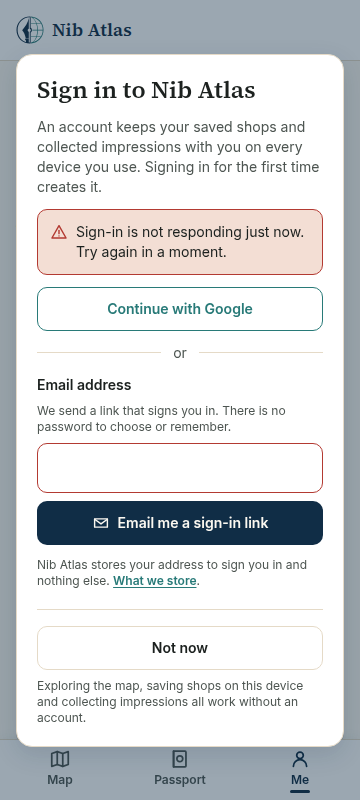
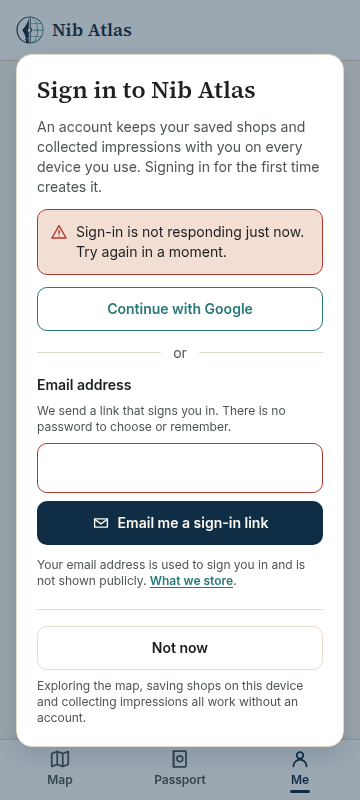
Follow-up to WP3: a raced journey, a stale note, and refreshed evidence
Work that missed #37 — the push was rejected as non-fast-forward while the
branch was being finished, and the pull request merged before it landed.
Restarted from the merged main rather than stacked on it. No product
behaviour changes here: one reviewer note, one test geometry fix, tests, and
regenerated captures.

**A journey that only passed by racing an animation.** `applying after a pan`
starts its drag at 0.55 of the height with the results sheet raised — which
the sheet covers at Half. It passed while the panel was still travelling
upward and the start point was still map; once the transition settles first,
the drag grabs the handle, the sheet goes to Full, the map never moves, and
there is no Search this area to offer. Instrumented rather than guessed at:
the camera reported no movement at all, and the handle's grab area measured
393 px against a start point of 406. It fails three runs in five against the
merged code, and eight in eight pass with the gesture started at 0.15 and
dragged downward, clear of the sheet at every breakpoint that has one.
`panMap` takes the start fraction as an argument, with its previous default.

**The reviewer note on Privacy still said accounts do not exist.** They do
now, where a Supabase project is configured, and the note says which is which
— and that signing in does not yet move what is saved on the device.

**Coverage for what landed.** Reducer cases for `restoreFilters`; the map
[…]

Changed region(s): [[0.0917, 0.6875, 0.8556, 0.75]]

diff --git a/tests/e2e/auth-interruption.spec.ts b/tests/e2e/auth-interruption.spec.ts
@@ -150,8 +150,11 @@ test.describe("the interruption", () => {
     const confirmation = page.getByRole("dialog", { name: /check your email/i });
 
     await expect(confirmation).toContainText("ada@example.com");
+    // Described, not named: WP6 has not proven hosted delivery, and an address
+    // the message may not have come from sends the reader to the wrong place.
+    // Any address fails this, not just today's.
     await expect(confirmation).toContainText(/Nib Atlas sign-in message/i);
-    await expect(confirmation).not.toContainText("login@nibatlas.com");
+    await expect(confirmation).not.toContainText(/@nibatlas\.com/i);
     // Nothing here says whether the address already had an account: the route
     // answers the same way either way, and the copy keeps it that way.
     await expect(confirmation).not.toContainText(/welcome back|new account/i);
@@ -223,6 +226,63 @@ test.describe("the interruption", () => {
     await expect(
       dialog.getByRole("button", { name: /continue with google/i }),
     ).toBeEnabled();
+  });
+});
+
+test.describe("what the reader is told about their address", () => {
+  /*
+   * The interruption's own claim, and the page it links to, have to describe the
+   * same contract — and not a larger one. Authentication necessarily involves an
+   * account identifier, a session, and the provider of whichever path the reader
+   * chose, so no screen may round that down to "your address and nothing else".
+   */
+  test("the interruption claims only what is true, and links to the rest", async ({
+    page,
+  }) => {
+    await stubSession(page, { kind: "signed-out" });
+    await page.goto("/login");
+
+    await expect(page.getByText(/is not shown publicly/i)).toBeVisible();
+    await expect(page.getByText(/nothing else/i)).toHaveCount(0);
+
+    await page.getByRole("link", { name: /what we store/i }).click();
+
+    await expect(page).toHaveURL(/\/privacy$/);
+  });
+
+  test("Privacy describes signing in, and who processes it", async ({ page }) => {
+    await page.goto("/privacy");
+
+    const signingIn = page.getByRole("heading", { name: /^signing in$/i });
+
+    await expect(signingIn).toBeVisible();
+
+    const text = (await page.locator("main").innerText()).replace(/\s+/gu, " ");
+
+    // What is held, and who holds or handles it on each path.
+    expect(text).toMatch(/Supabase Auth to manage your account and session/i);
+    expect(text).toMatch(/email delivery service sends the message/i);
+    expect(text).toMatch(/Google and Supabase process the sign-in/i);
+    expect(text).toMatch(/session cookie/i);
+
+    // The page no longer says accounts are a later thing, or that only the
+    // contribution forms send anything away from the browser.
+    expect(text).not.toMatch(/Once accounts exist/i);
+    expect(text).not.toMatch(/An account will later carry/i);
+    expect(text).toMatch(/Apart from account sign-in, two things/i);
+  });
+
+  /*
+   * And it is still honest about what signing in does *not* do yet: saves and
+   * impressions stay on the device until WP4 and WP5 move them.
+   */
+  test("Privacy says an account does not yet carry what you saved", async ({ page }) => {
+    await page.goto("/privacy");
+
+    const text = (await page.locator("main").innerText()).replace(/\s+/gu, " ");
+
+    expect(text).toMatch(/Signing in does not sync these items yet/i);
+    expect(text).toMatch(/What you save stays on this device/i);
   });
 });
 

diff --git a/src/features/explore/explore-state.test.ts b/src/features/explore/explore-state.test.ts
@@ -413,6 +413,68 @@ describe("explore reducer", () => {
     expect(dragged.requestId).toBe(initial.requestId);
   });
 
+  /*
+   * Restoring a filter set the screen was handed, rather than one the reader
+   * just chose. Today that is the set a return path carried back through
+   * authentication, and it has to behave like any other filter commit: the
+   * results shown are the results the filters describe.
+   */
+  describe("restoring committed filters", () => {
+    it("commits them, and does not search anywhere else", () => {
+      const initial = loaded(createExploreState({ viewport: tokyo }));
+      const restored = exploreReducer(initial, {
+        type: "restoreFilters",
+        filters: {
+          status: "saved",
+          availability: "not_closed",
+          shopTypes: ["vintage_used"],
+        },
+      });
+
+      expect(restored.filters).toEqual({
+        status: "saved",
+        availability: "not_closed",
+        shopTypes: ["vintage_used"],
+      });
+      // The drawer opens on the restored set rather than on an empty one.
+      expect(hasUnappliedFilters(restored)).toBe(false);
+      expect(restored.committed).toEqual(initial.committed);
+      expect(restored.query.bounds).toEqual(tokyo.bounds);
+    });
+
+    /* A shop-type filter is resolved by the source, so restoring one re-runs
+       the query — exactly as choosing it would. */
+    it("re-queries when the source has to resolve the set", () => {
+      const initial = loaded(createExploreState({ viewport: tokyo }));
+      const restored = exploreReducer(initial, {
+        type: "restoreFilters",
+        filters: {
+          status: "all",
+          availability: "any",
+          shopTypes: ["nib_repair_services"],
+        },
+      });
+
+      expect(restored.status).toBe("loading");
+      expect(restored.query.requestId).toBe(initial.query.requestId + 1);
+      expect(restored.query.shopTypes).toEqual(["nib_repair_services"]);
+    });
+
+    /* And does not, when it does not: a status the reader owns is applied to
+       the results already loaded. */
+    it("keeps the loaded results when the set needs no query", () => {
+      const initial = loaded(createExploreState({ viewport: tokyo }));
+      const restored = exploreReducer(initial, {
+        type: "restoreFilters",
+        filters: { status: "visited", availability: "any", shopTypes: [] },
+      });
+
+      expect(restored.status).toBe(initial.status);
+      expect(restored.requestId).toBe(initial.requestId);
+      expect(restored.results).toEqual(initial.results);
+    });
+  });
+
   describe("retry", () => {
     it("re-runs the query the visible results are under, not the moved camera", () => {
       const withResults = loaded(createExploreState({ viewport: tokyo }));

diff --git a/tests/e2e/explore.spec.ts b/tests/e2e/explore.spec.ts
@@ -54,13 +54,25 @@ async function raiseSheet(page: Page) {
   await expect(sheet).not.toHaveAttribute("data-state", "peek");
 }
 
-/** A stepwise drag so MapLibre sees a real gesture rather than one jump. */
-async function panMap(page: Page, fractionX: number, fractionY: number) {
+/**
+ * A stepwise drag so MapLibre sees a real gesture rather than one jump.
+ *
+ * `startFraction` is where down the map the gesture begins, and it matters when
+ * the results sheet is raised: at Half the sheet owns the bottom 52% of the
+ * screen, so a drag that starts at the default 0.55 lands on the sheet rather
+ * than the map. A journey that pans with the sheet up passes its own start.
+ */
+async function panMap(
+  page: Page,
+  fractionX: number,
+  fractionY: number,
+  startFraction = 0.55,
+) {
   const box = await page.getByTestId("map-canvas").boundingBox();
   expect(box).not.toBeNull();
 
   const startX = box!.x + box!.width * 0.75;
-  const startY = box!.y + box!.height * 0.55;
+  const startY = box!.y + box!.height * startFraction;
   const dx = box!.width * fractionX;
   const dy = box!.height * fractionY;
 
@@ -597,7 +609,19 @@ test("applying after a pan commits the camera and the filters together", async (
 
   const explore = page.getByTestId("explore");
 
-  await panMap(page, -0.45, -0.3);
+  /*
+   * Panned above the sheet, and downward.
+   *
+   * This is the only journey that pans with the sheet raised, and it used to
+   * start at the default 0.55 of the height — which the sheet covers at Half.
+   * It passed only by racing the sheet's rise: while the panel was still
+   * travelling upward the start point was still map, and on a machine where the
+   * transition had finished first the drag grabbed the handle instead, dragged
+   * the sheet to Full, and left the map exactly where it was with no
+   * `Search this area` to offer. Starting at 0.15 and dragging *down* keeps the
+   * whole gesture on the map at every breakpoint that has a sheet.
+   */
+  await panMap(page, -0.45, 0.25, 0.15);
   await expect(explore).toHaveAttribute("data-search-offer", "offer");
 
   await page.getByRole("button", { name: /^filters/i }).click();

diff --git a/src/features/auth/SignInInterruption.test.tsx b/src/features/auth/SignInInterruption.test.tsx
@@ -93,6 +93,24 @@ describe("the sign-in interruption", () => {
     expect(dialog).not.toHaveTextContent(/you need an account/i);
   });
 
+  /*
+   * The privacy line says what is true of the address and no more. "Stores your
+   * address to sign you in and nothing else" was broader than the contract —
+   * authentication involves an account identifier and a session, and the chosen
+   * path involves a provider — and the full account is on Privacy, linked from
+   * here rather than summarised into a promise.
+   */
+  it("claims no more about the address than is true", async () => {
+    installAuthFetch();
+    const dialog = await openInterruption();
+
+    expect(dialog).toHaveTextContent(/is not shown publicly/i);
+    expect(dialog.textContent).not.toMatch(/nothing else/i);
+    expect(
+      within(dialog).getByRole("link", { name: /what we store/i }),
+    ).toHaveAttribute("href", "/privacy");
+  });
+
   it("carries the return path and the pending intent to the server", async () => {
     const { requests } = installAuthFetch();
     const dialog = await openInterruption();
@@ -130,8 +148,16 @@ describe("the sign-in interruption", () => {
     const confirmation = await screen.findByRole("status");
 
     expect(confirmation).toHaveTextContent("ada@example.com");
+    /*
+     * The sender is described, not named. Naming it before WP6 has proven
+     * hosted delivery would be a claim about where the message came from that
+     * nobody has tested — and on a project whose custom SMTP is not switched on
+     * the route can succeed while the mail arrives from elsewhere.
+     */
     expect(screen.getByRole("dialog")).toHaveTextContent(/Nib Atlas sign-in message/i);
-    expect(screen.getByRole("dialog")).not.toHaveTextContent("login@nibatlas.com");
+    // Any address, not just today's: the guard has to fail if a later change
+    // names one before that proof exists.
+    expect(screen.getByRole("dialog").textContent).not.toMatch(/@nibatlas\.com/i);
     // The address is repeated back so a typo is visible, and correcting it does
     // not mean dismissing and reopening the interruption.
     expect(

diff --git a/src/features/auth/return-to.test.ts b/src/features/auth/return-to.test.ts
@@ -34,6 +34,34 @@ describe("captureReturnTo", () => {
   });
 
   /*
+   * The map-context half of issue #34's invariant, at the seam where it has to
+   * hold.
+   *
+   * The committed viewport and filters are carried in one query parameter by
+   * `src/features/explore/explore-context.ts`, so preserving them through
+   * authentication is preserving the query — which is what this does, and what
+   * `normalizeReturnTo` keeps on an allowed path. Nothing in the auth code
+   * knows what a filter is.
+   */
+  it("carries the map context, because it is in the query", () => {
+    const mapContext = encodeURIComponent(
+      JSON.stringify({
+        viewport: { bounds: { west: 139, south: 35, east: 140, north: 36 }, zoom: 10 },
+        label: "Tokyo",
+        filters: { status: "saved", shopTypes: ["vintage_used"], availability: "open" },
+      }),
+    );
+
+    expect(
+      captureReturnTo({
+        pathname: "/",
+        search: `?shop=ty-lee-pen-shop&mapContext=${mapContext}`,
+        hash: "",
+      }),
+    ).toBe(`/?shop=ty-lee-pen-shop&mapContext=${mapContext}`);
+  });
+
+  /*
    * A reader who signs in from a page that is showing a previous callback's
    * result must not carry that result into the next return path, or the banner
    * announces a sign-in that did not just happen.

diff --git a/src/features/reviewer/ReviewerNotes.tsx b/src/features/reviewer/ReviewerNotes.tsx
@@ -35,10 +35,15 @@ export function PrivacyReviewerNote() {
   return (
     <Note title="Reviewer note">
       <p>
-        This build is a frontend prototype: no accounts, no server, and no location
-        access. It never asks the browser for a position. Saved shops and simulated
-        collections are held on this device only, in this browser&rsquo;s local
-        storage, and are not sent anywhere.
+        This build is a frontend prototype with no location access: it never asks
+        the browser for a position. Saved shops and simulated collections are held
+        on this device only, in this browser&rsquo;s local storage, and are not
+        sent anywhere &mdash; signing in does not yet move them.
+      </p>
+      <p>
+        Accounts are real where a Supabase project is configured for the build.
+        Where one is not, sign-in is unavailable and Me says so rather than
+        offering it.
       </p>
       <p>
         Shop records are a small sourced sample, not a complete or continuously

diff --git a/tests/e2e/prose-integrity.spec.ts b/tests/e2e/prose-integrity.spec.ts
@@ -20,6 +20,7 @@ const PROSE_ROUTES = [
   "/shops/ty-lee-pen-shop/report",
   "/shops/juspirit-banqiao",
   "/me",
+  "/login",
 ];
 
 /**

diff --git a/docs/evidence/milestone-4-wp3/README.md b/docs/evidence/milestone-4-wp3/README.md
@@ -25,7 +25,7 @@ Prefixes are the breakpoints: `m` = 360 × 800, `t` = 768 × 1024,
 | --- | --- |
 | `*-me-signed-out` | Me with a session that says signed out. The account is offered as a control, not as a promise about a later milestone. |
 | `*-interruption` | The interruption over Me: two ways in, one line on what an account is for, and a named way out. |
-| `*-link-sent` | What a reader is told once the link is on its way, including the sender and that nothing on the device is lost. |
+| `*-link-sent` | What a reader is told once the link is on its way. It describes the sender rather than naming an address, because WP6 has not yet proven hosted delivery. |
 | `*-interruption-error` | A refused address, reported on the field that caused it. |
 | `*-google-unavailable` | A provider that could not be started. The reader stays where they were. |
 | `*-login-route` | `/login`, carrying a pending Save intent, which is what an emailed link that failed or a shared address lands on. |
@@ -56,6 +56,22 @@ the same as they were before this work.
 The hosted proof — real magic-link delivery, real Google sign-in, session
 refresh and logout against `nibatlas-staging` — is WP6.
 
+## The return context
+
+Issue #34's `returnTo` invariant covers the viewport, the selected shop, the
+committed filters and the intended action. All four survive a full navigation
+now: `src/features/explore/explore-context.ts` carries the committed viewport
+and every filter dimension in one validated `mapContext` parameter added to a
+map or shop return path, and `normalizeReturnTo` keeps the query of an allowed
+path. Nothing in the authentication code knows what a filter is —
+`captureReturnTo` takes the path, query and fragment as they stand — and because
+the context travels in the URL rather than in session storage, a link opened in
+a new tab restores it too.
+
+Asserted in `explore-context.test.ts` for the encoding, in `return-to.test.ts`
+for the capture, and in `tests/e2e/auth-interruption.spec.ts` for the journey
+that carries a filtered map through a callback into a new tab.
+
 ## Accessibility
 
 Audited with axe (`wcag2a`, `wcag2aa`, `wcag21a`, `wcag21aa`) in
@@ -71,6 +87,9 @@ Audited with axe (`wcag2a`, `wcag2aa`, `wcag21a`, `wcag21aa`) in
 One violation was found and fixed while doing this: the "or" between the two
 sign-in routes was set in `--text-muted`, which measures 4.35:1 on the panel
 surface at 14 px. It is `--text-secondary` now.
+
+The review round added two audited surfaces of its own: `/login` and `/privacy`
+after the account sections were written into it.
 
 Beyond the audit, and asserted in `tests/e2e/auth-interruption.spec.ts`:
 
